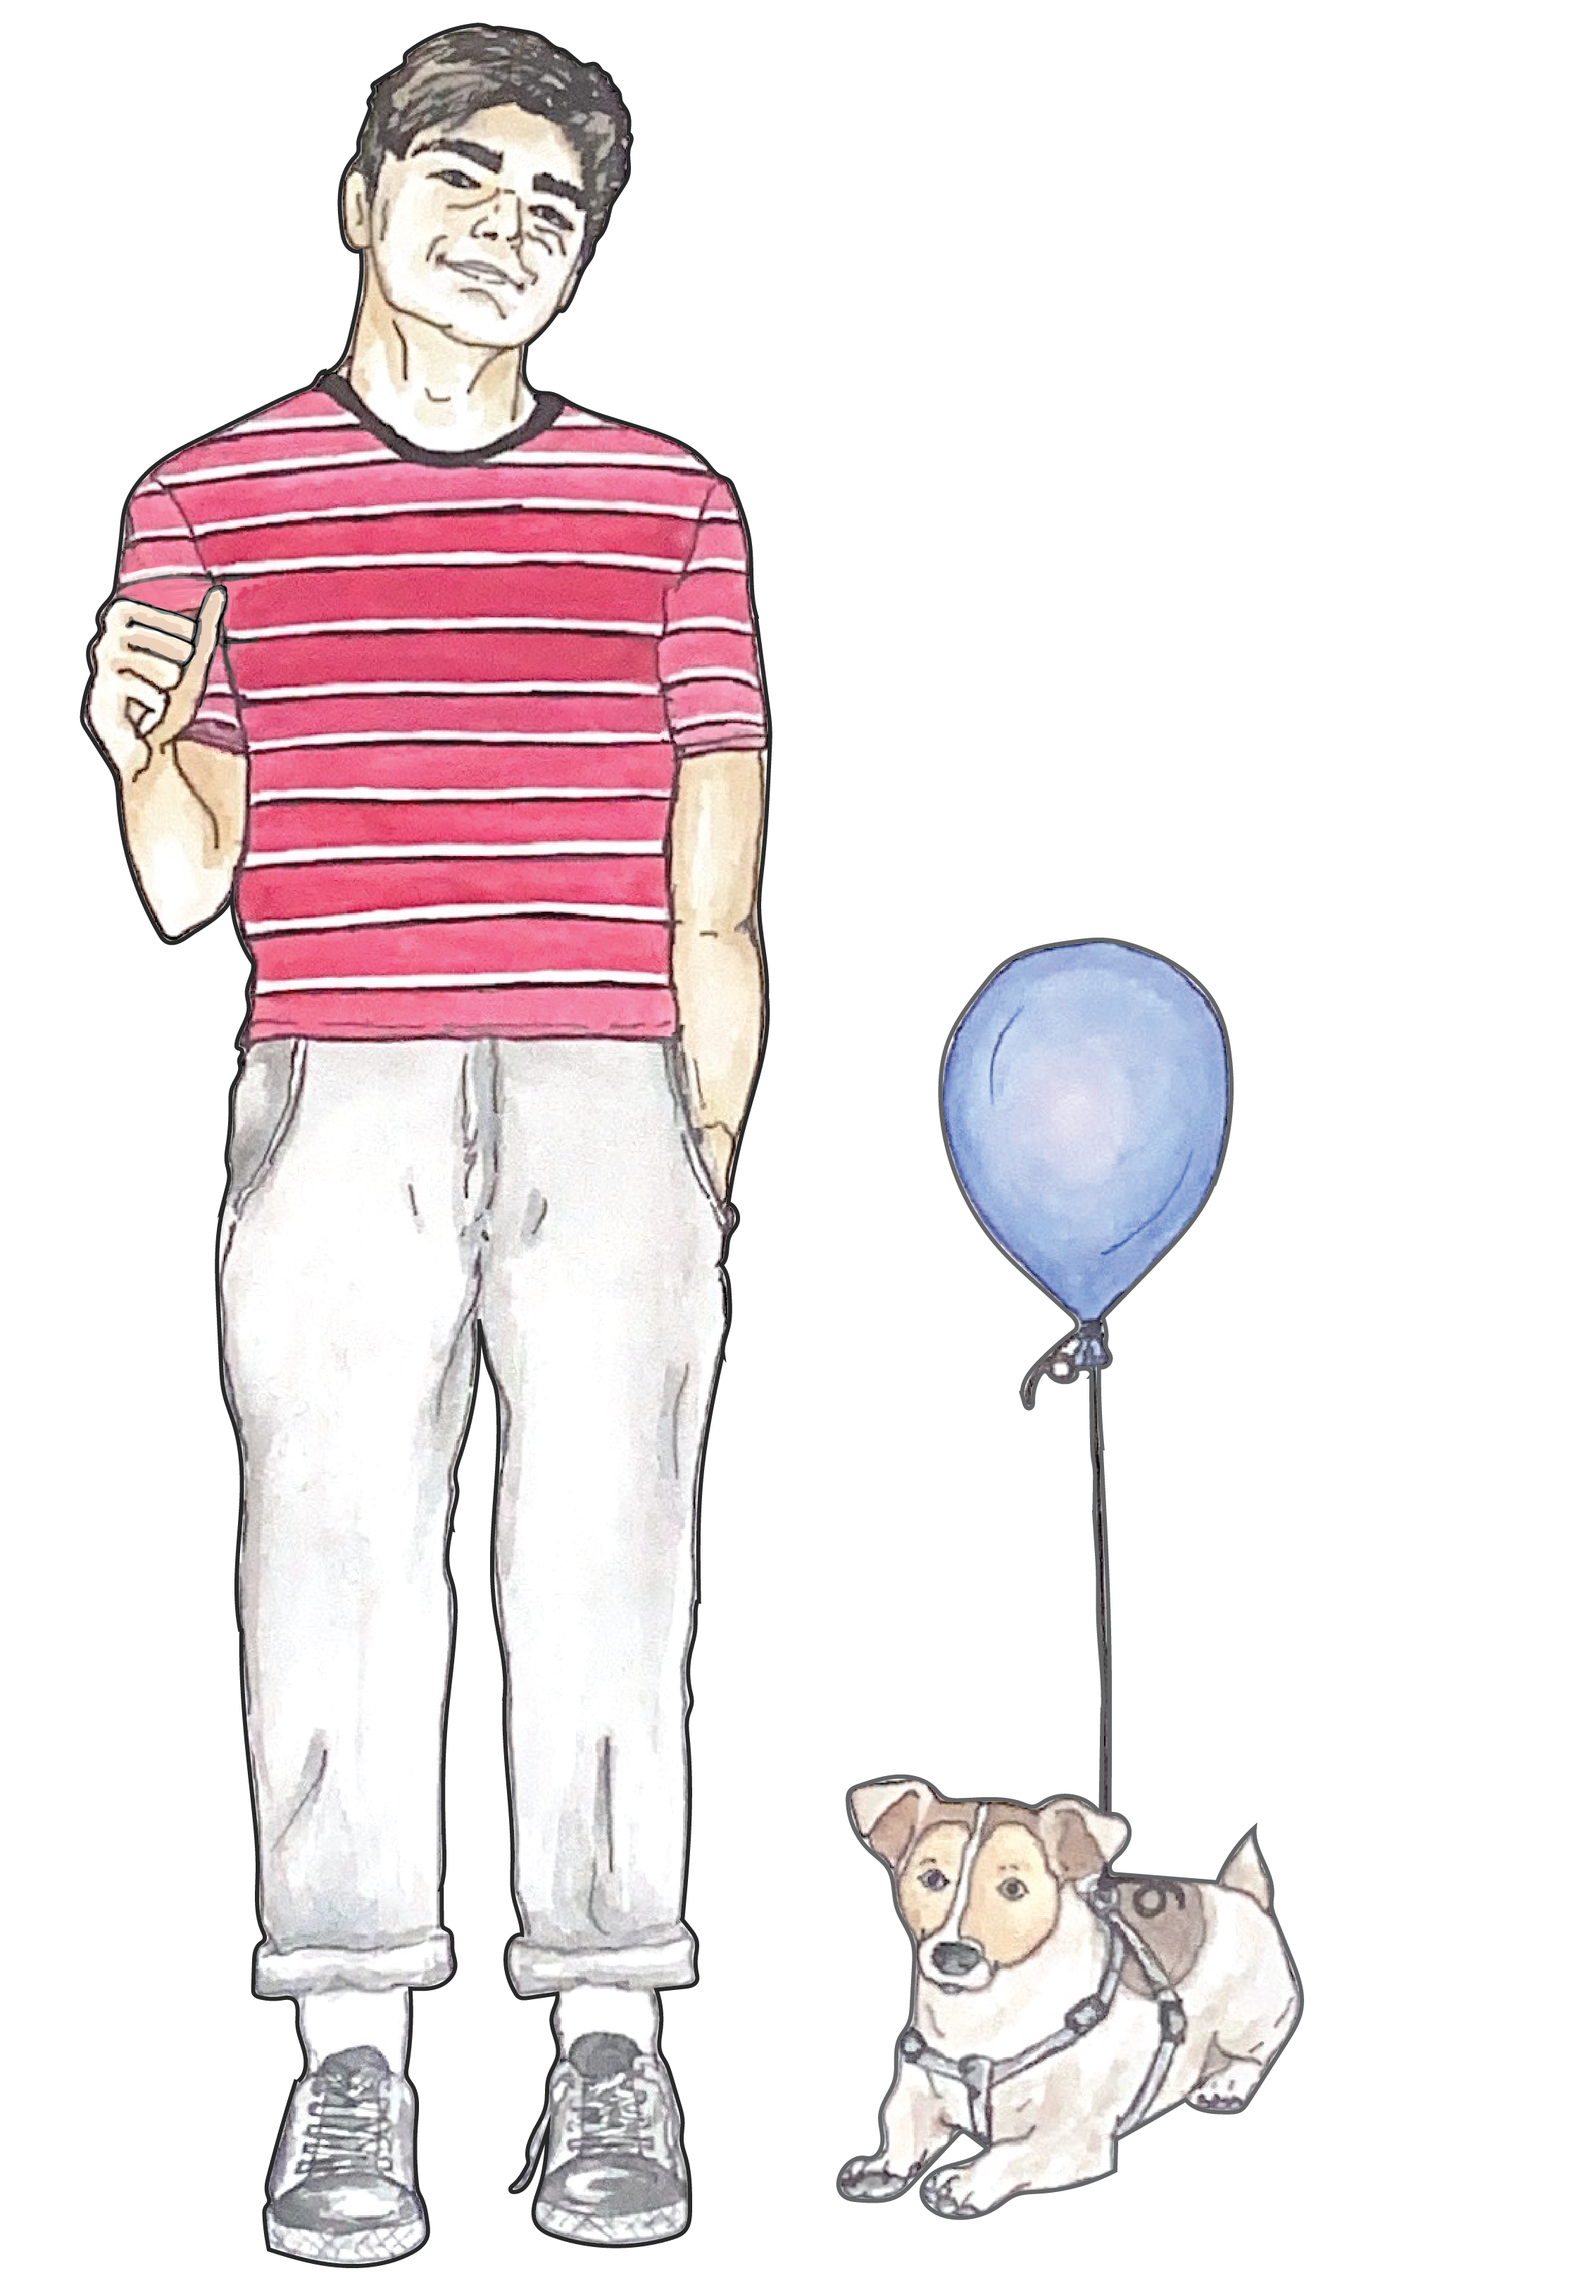
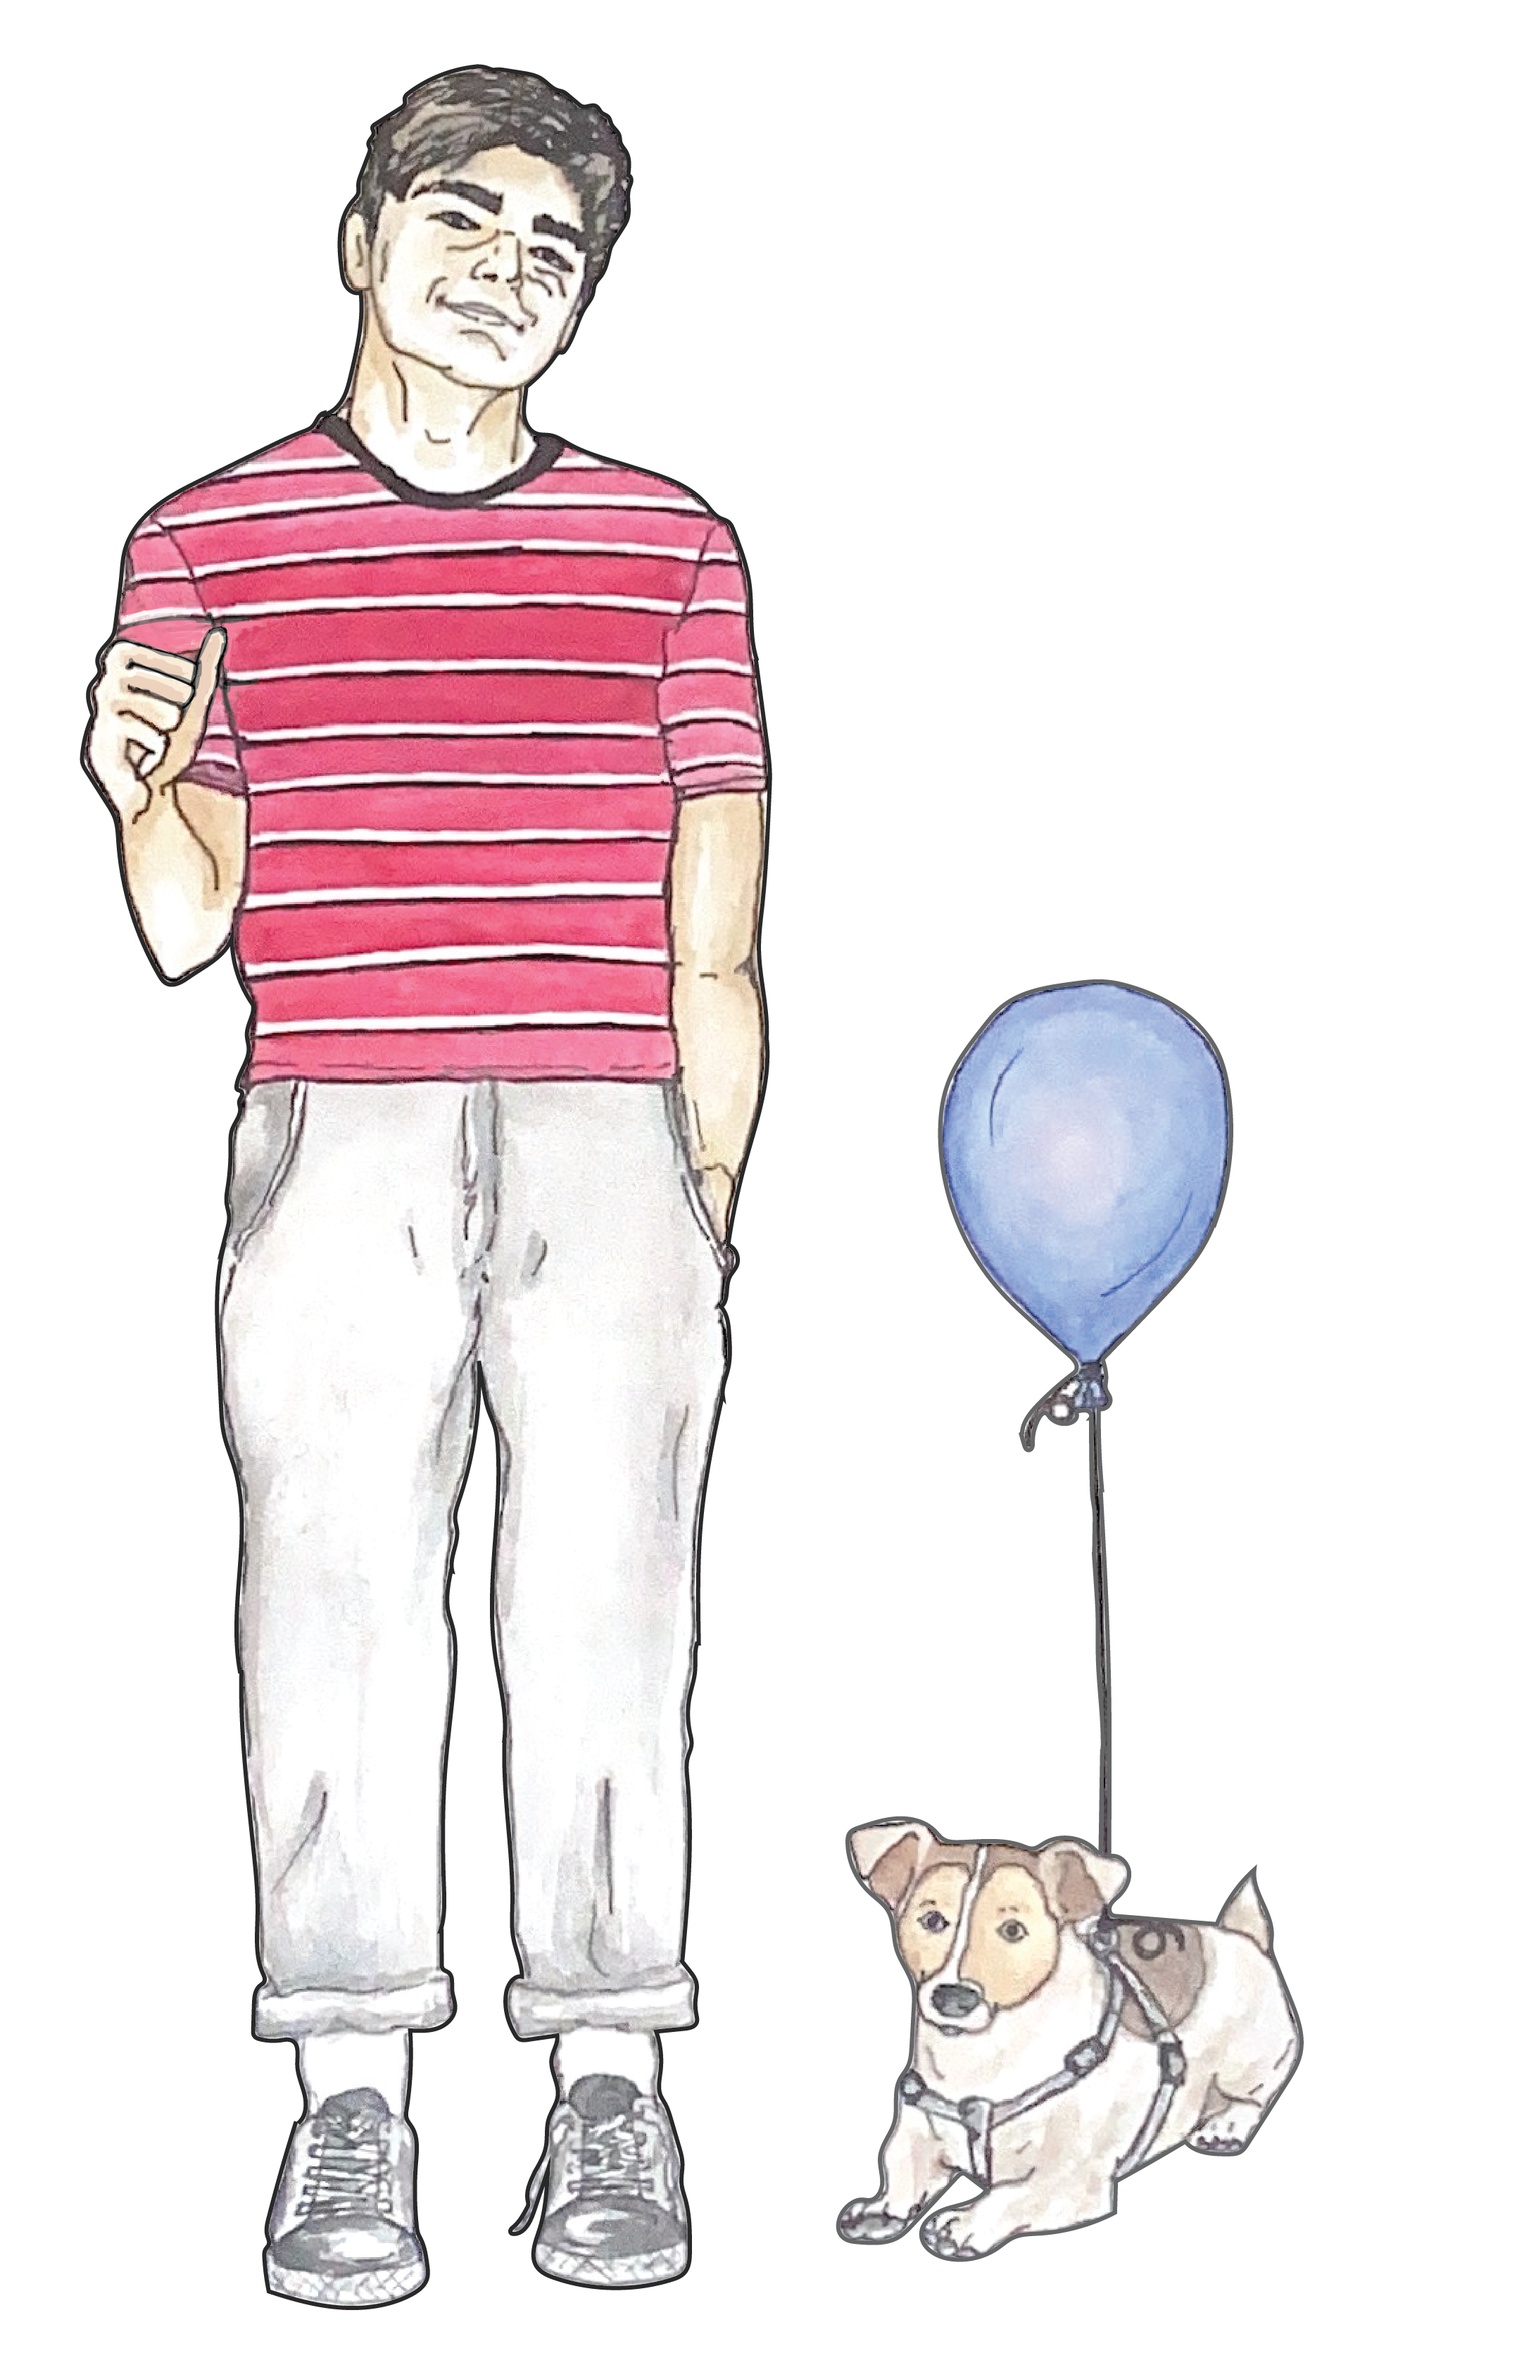
Resize hero image on home page

Changed region(s): [[0.0311, 0.0, 0.5285, 0.9957], [0.5285, 0.4045, 0.8705, 0.9957]]

diff --git a/src/components/globalStyle.js b/src/components/globalStyle.js
@@ -38,15 +38,15 @@ export const GlobalStyle = createGlobalStyle`
     }
     h1 {
         font-weight: 700;
-        font-size: 2rem;
-        line-height: 2.375rem;
+        font-size: 2.625rem;
+        line-height: 3rem;
         color: black;
         margin: 2rem 0rem;
     }
     h2 {
         font-weight: 700;
-        font-size: 1.25rem;
-        line-height: 1.5rem;
+        font-size: 2rem;
+        line-height: 2rem;
         color: black;
     }
     a {

diff --git a/src/components/hero.js b/src/components/hero.js
@@ -27,6 +27,7 @@ const Hero = () => {
             alt="Emilio Ziniades"
             placeholder="blurred"
             loading="eager"
+            height={700}
           />
         </Col>
         <Col className="px-4 py-2">
